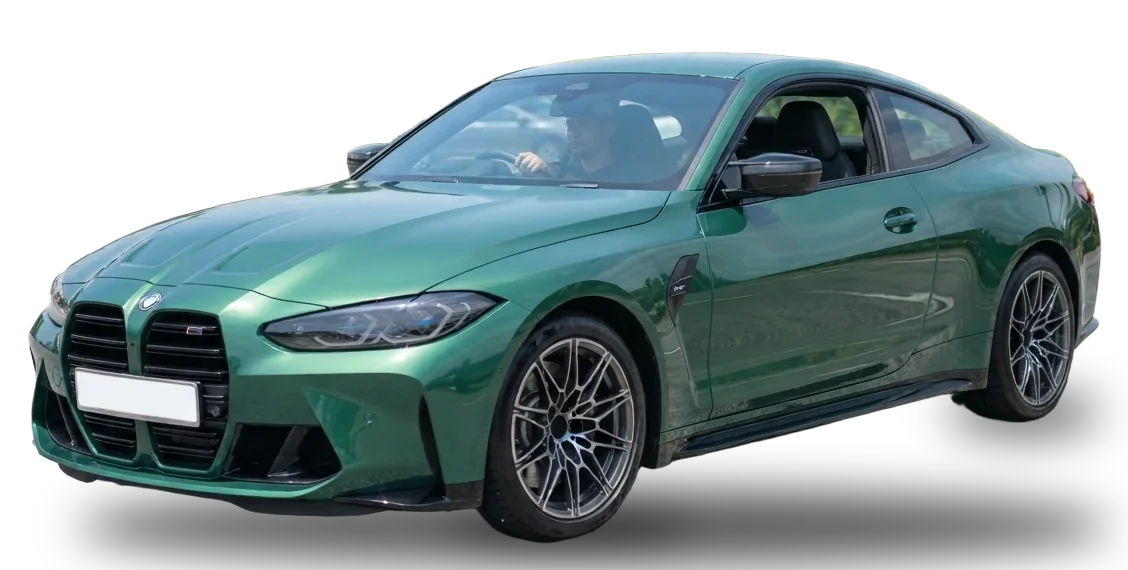
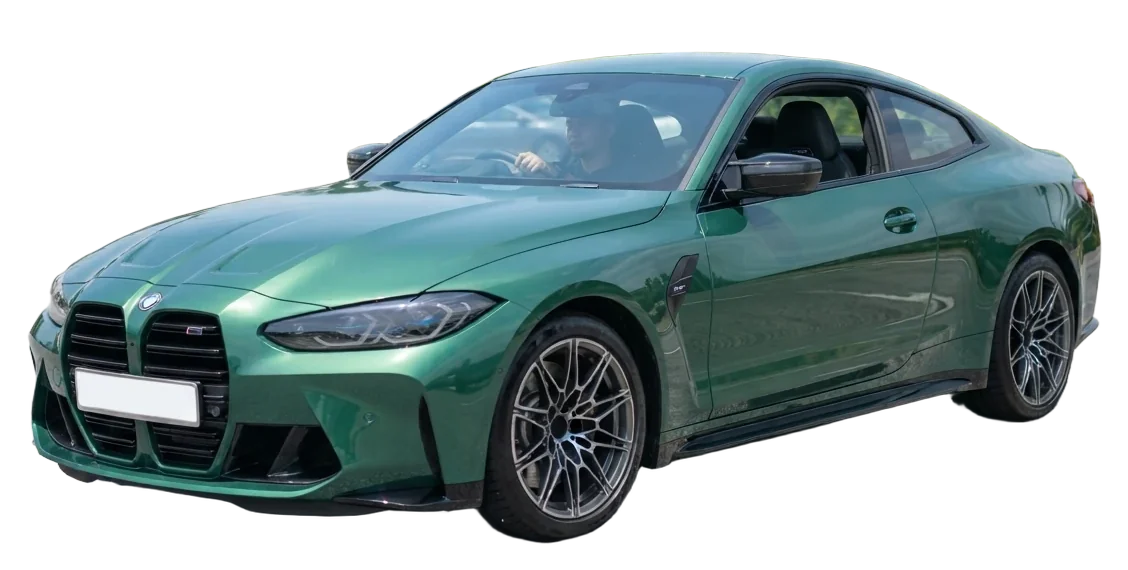
Tint preview: half-box background, car stands out above it
The full photo shows only in the bottom part of the frame (cp-bg,
clipped from 42% down); the cut-out car sits over it, so the roof and
glass rise above the box. Drops the drawn ground shadow: the photo's
own ground is back under the wheels.

Claude-Session: https://claude.ai/code/session_01Sw8hC9bjqMKhbvTy8BTPrS

Changed region(s): [[0.0621, 0.8053, 0.9929, 1.0], [0.8378, 0.6561, 0.9929, 0.8053]]

diff --git a/src/public/site.css b/src/public/site.css
@@ -532,9 +532,11 @@ main.book .page-head .crumb { margin-bottom: 8px; }
 }
 
 /* ---------- tint preview photo (carSvg in render.js): the car photo, three masked film layers, a moving sheen ---------- */
-/* car-front.webp is cut out (transparent round the car, soft ground shadow), so no box behind it */
+/* half-box: the full photo (cp-bg) shows only from 42% down; the cut-out car (cp-base, transparent
+   round the car) sits over it, so the roof and glass stand out above the box */
 .car-photo { position: relative; aspect-ratio: 1128 / 570; }
-.car-photo .cp-base { position: absolute; inset: 0; width: 100%; height: 100%; object-fit: cover; }
+.car-photo .cp-base, .car-photo .cp-bg { position: absolute; inset: 0; width: 100%; height: 100%; object-fit: cover; }
+.car-photo .cp-bg { clip-path: inset(42% 0 0 0 round 14px); }
 .cp-tint, .cp-sheen { position: absolute; inset: 0; pointer-events: none;
   -webkit-mask: var(--m) center / 100% 100% no-repeat; mask: var(--m) center / 100% 100% no-repeat; }
 .cp-tint { background: #06080d; transition: opacity .3s ease; }

diff --git a/src/shared/render.js b/src/shared/render.js
@@ -132,6 +132,7 @@ const TINT = '#06080d';
 function carSvg(rearVlt) {
   const layer = (zone, cls, vlt) => `<i class="cp-tint ${cls}" style="--m:url(/tint/car-front-${zone}.png);opacity:${tintOpacity(vlt)}"></i>`;
   return `<div class="car-view car-photo" role="img" aria-label="Pratonton tinted: cermin belakang ${rearVlt}%, cermin depan ${JPJ.windscreen}%, tingkap sisi depan ${JPJ.frontSide}%">
+  <img class="cp-bg" src="/tint/car-front-bg.webp" alt="" width="1128" height="570" loading="lazy" decoding="async">
   <img class="cp-base" src="/tint/car-front.webp" alt="" width="1128" height="570" loading="lazy" decoding="async">
   ${layer('ws', 'tint-ws', JPJ.windscreen)}${layer('front', 'tint-front', JPJ.frontSide)}${layer('rear', 'tint-rear', rearVlt)}
   <i class="cp-glass" aria-hidden="true"></i>
